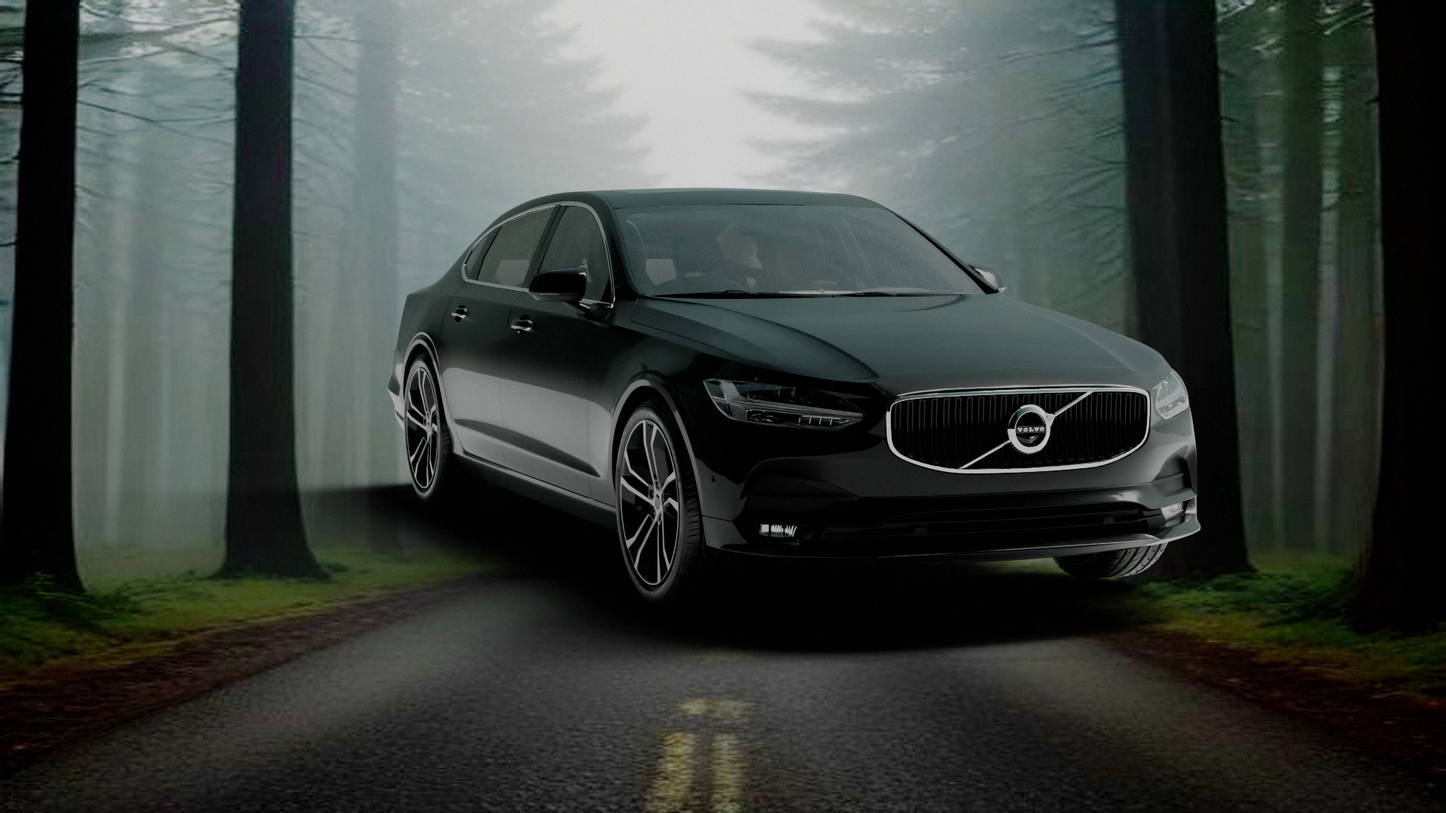
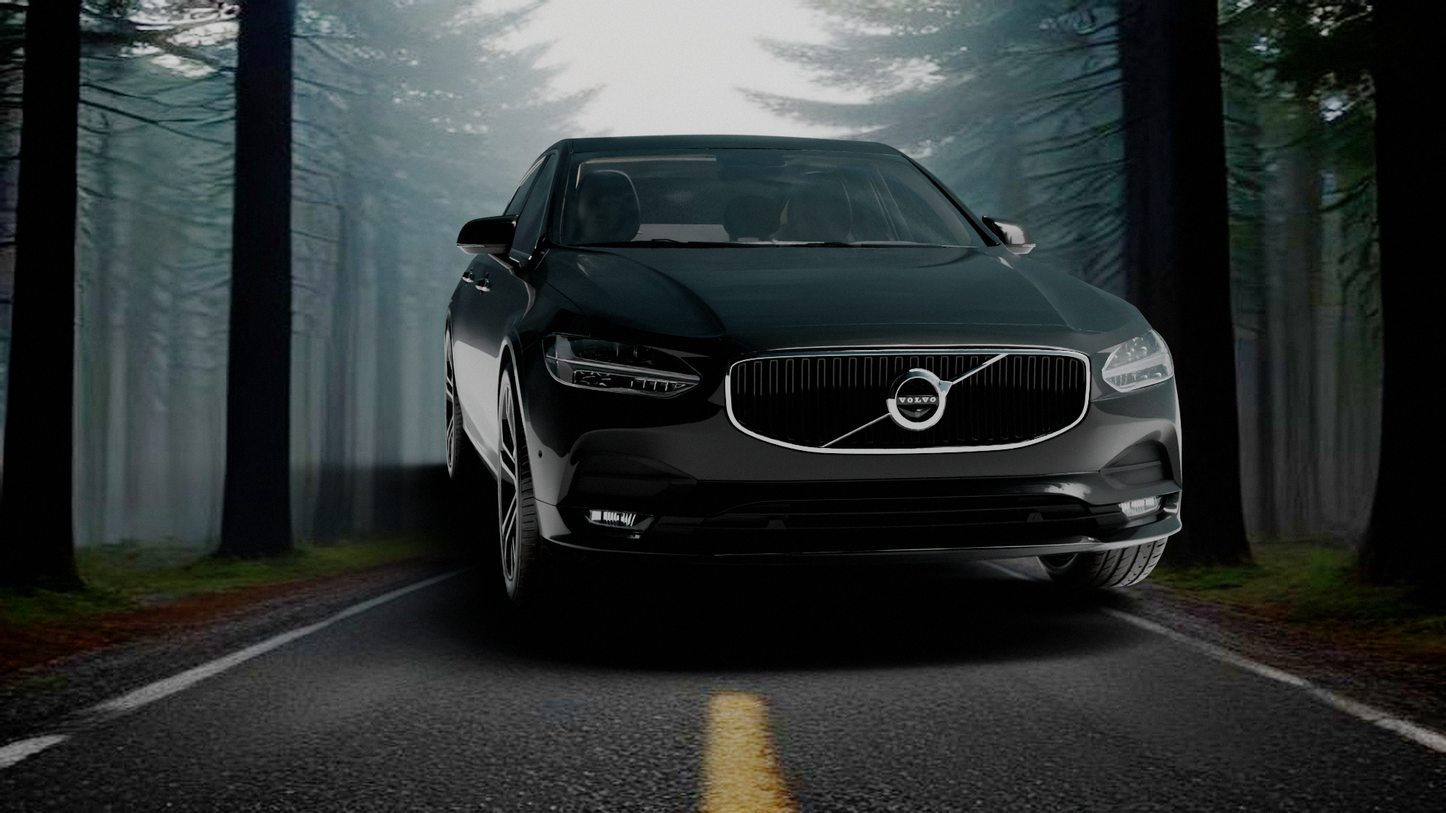
fix: center car lane alignment X=-1.2m, eye-level Z=1.05m, and update centered-road prompts

diff --git a/stage1_ai/extract_camera.py b/stage1_ai/extract_camera.py
@@ -87,18 +87,18 @@ def extract_camera_parameters(
     print(f"[Camera Matcher] Processing: {input_image_path} (ID: {prompt_id})")
 
     # Camera location presets (in cm)
-    # Pulled back to Y = -850cm to -950cm (-8.5m to -9.5m) so full car is framed nicely
+    # X=-120 to -140cm (centered on road lane), Y=-720cm (-7.2m framing distance), Z=105cm (eye-level height)
     PRESETS = {
-        "prompt_01": dict(fov=38.0, camera_location=[-400.0, -850.0, 150.0],
-                           camera_rotation=[-5.0, 0.0, 0.0], road_based=False),
-        "prompt_02": dict(fov=36.0, camera_location=[-350.0, -850.0, 130.0],
+        "prompt_01": dict(fov=40.0, camera_location=[-140.0, -720.0, 105.0],
+                           camera_rotation=[-3.0, 0.0, 0.0], road_based=False),
+        "prompt_02": dict(fov=40.0, camera_location=[-140.0, -720.0, 105.0],
                            camera_rotation=[-3.0, 0.0, 0.0], road_based=True),
-        "prompt_03": dict(fov=36.0, camera_location=[-300.0, -850.0, 220.0],
-                           camera_rotation=[-12.0, 0.0, 0.0], road_based=True),
-        "prompt_04": dict(fov=36.0, camera_location=[0.0, -900.0, 130.0],
-                           camera_rotation=[-4.0, 0.0, 0.0], road_based=True),
-        "prompt_05": dict(fov=38.0, camera_location=[-400.0, 850.0, 150.0],
-                           camera_rotation=[-5.0, 0.0, 0.0], road_based=False),
+        "prompt_03": dict(fov=40.0, camera_location=[-120.0, -720.0, 105.0],
+                           camera_rotation=[-3.0, 0.0, 0.0], road_based=True),
+        "prompt_04": dict(fov=40.0, camera_location=[0.0, -750.0, 100.0],
+                           camera_rotation=[-2.5, 0.0, 0.0], road_based=True),
+        "prompt_05": dict(fov=40.0, camera_location=[-140.0, 720.0, 105.0],
+                           camera_rotation=[-3.0, 0.0, 0.0], road_based=False),
     }
 
     key = next((k for k in PRESETS if k in prompt_id), "prompt_02")
@@ -121,7 +121,9 @@ def extract_camera_parameters(
 
                 if h_conf >= 0.15:
                     measured_pitch = pitch_from_horizon(horizon_row, h, fov)
-                    camera_rotation[0] = round(measured_pitch, 2)
+                    # Clamp pitch angle between -4.5deg and -1.5deg to prevent car from floating
+                    clamped_pitch = float(np.clip(measured_pitch, -4.5, -1.5))
+                    camera_rotation[0] = round(clamped_pitch, 2)
                     detection_info["pitch_confidence"] = round(h_conf, 2)
                     detection_info["method"] = "image_derived"
                 else:

diff --git a/stage2_render/blender_render.py b/stage2_render/blender_render.py
@@ -380,22 +380,22 @@ def render_with_blender_cycles(
 
     # ------------------------------------------------------------------ camera
     import math
-    bpy.ops.object.camera_add(location=(0, -4.5, 1.1))
+    bpy.ops.object.camera_add(location=(-1.3, -7.2, 1.05))
     cam = bpy.context.active_object
     scene.camera = cam
 
-    fov = 50.0
+    fov = 40.0
     if os.path.exists(camera_json_path):
         with open(camera_json_path, 'r') as f:
             cdata = json.load(f)
-        loc = cdata.get('camera_location', [0, -450.0, 110.0])
+        loc = cdata.get('camera_location', [-130.0, -720.0, 105.0])
         cam.location = (loc[0] / 100.0, loc[1] / 100.0, loc[2] / 100.0)
-        fov = cdata.get('fov', 50.0)
+        fov = cdata.get('fov', 40.0)
 
     cam.data.angle = math.radians(fov)
 
     target = bpy.data.objects.new("CameraTarget", None)
-    target.location = (0.0, 0.0, 0.55)
+    target.location = (0.0, 0.0, 0.45)
     scene.collection.objects.link(target)
     constraint = cam.constraints.new(type='TRACK_TO')
     constraint.target = target
